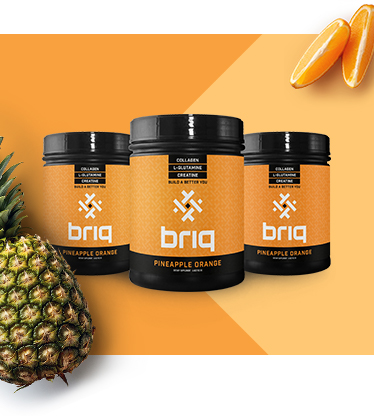
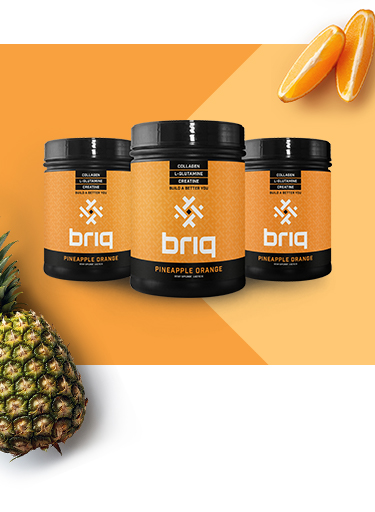
Adjust distance between quote and product-image

diff --git a/src/stylesheets/modules/_mod-product-image.scss b/src/stylesheets/modules/_mod-product-image.scss
@@ -1,19 +1,16 @@
 .mod-product-image {
   position: relative;
   text-align: center;
-  padding-bottom: 40px;
-  margin-bottom: 50px;
+  //padding-bottom: 40px;
+  //margin-bottom: 50px;
   .btn {
     padding: 0 20px;
   }
   .btn-wrap {
-    @include position(absolute, $left:0, $right:0, $bottom: 0);
+    @include position(absolute, $left:0, $right:0, $bottom: 10%);
   }
   .image-sm-wrap {
     @extend .d-md-none;
-    img {
-      width: 100%;
-    }
   }
   .image-lg-wrap {
     @extend .d-none;
@@ -22,26 +19,22 @@
   }
 }
 
-@include media-breakpoint-up(sm) {
-  .mod-product-image {
-    .btn-wrap {
-      bottom: 20px;
-    }
-  }
-}
-
-@include media-breakpoint-up(md) {
-  .mod-product-image {
-    .btn-wrap {
-      bottom: 60px;
-    }
-  }
-}
-
 @include media-breakpoint-up(lg) {
   .mod-product-image {
+    position: relative;
     .btn-wrap {
-      bottom: 110px;
+      bottom: 12%;
+    }
+    &~.mod-group-quote-cta {
+      margin-top: -6%;
+    }
+  }
+}
+
+@media (min-width: 2000px) {
+  .mod-product-image {
+    &~.mod-group-quote-cta {
+      margin-top: -150px;
     }
   }
 }

diff --git a/src/stylesheets/modules/_mod-news-feed.scss b/src/stylesheets/modules/_mod-news-feed.scss
@@ -7,6 +7,9 @@
   .first-col-left {
     @extend .col-12, .col-lg-6;
   }
+  .first-col-right {
+    height: 1000px;
+  }
   > .container {
     > .row {
       position: relative;
@@ -62,7 +65,7 @@
   overflow-x: hidden;
   text-align: center;
   padding: 90px 23px;
-  margin: 0 -15px;
+  margin: 0 -15px 40px;
   &::before {
     @include sizeEx(4000px, 100%);
     @include position(absolute, $top:0, $right:0, $index:0);
@@ -115,6 +118,7 @@
     }
     .first-col-right {
       padding-left: 15px;
+      height: auto;
     }
   }
   .news-feed-post {
@@ -140,6 +144,7 @@
   .news-feed-quote {
     text-align: left;
     overflow-x: visible;
+    margin-bottom: 0;
     padding: 80px 30px 90px;
     &::before {
       @include position(absolute, $top:0, $right:10px, $index:0);

diff --git a/src/html/modules/mod-product-image.html b/src/html/modules/mod-product-image.html
@@ -4,8 +4,7 @@
       <a href="{{ product.btn_link }}"><img class="d-inline-block" src="{{ product.image_lg }}" alt="{{ product.btn_text }}"></a>
     </div>
   </div>
-
-  <div class="image-sm-wrap w-100">
+  <div class="image-sm-wrap">
     <a href="{{ product.btn_link }}"><img class="w-100" src="{{ product.image_sm }}" alt="{{ product.btn_text }}"></a>
   </div>
   <div class="btn-wrap">
